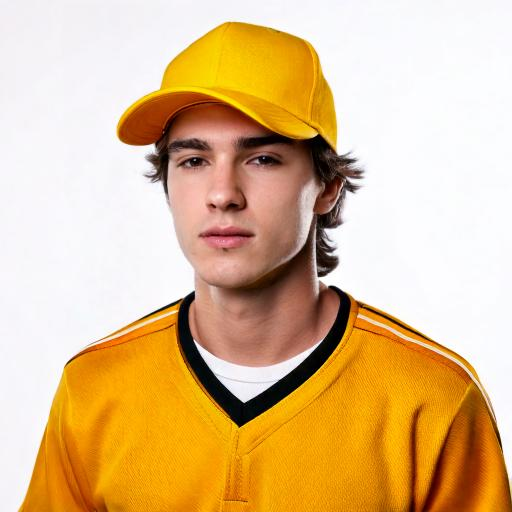
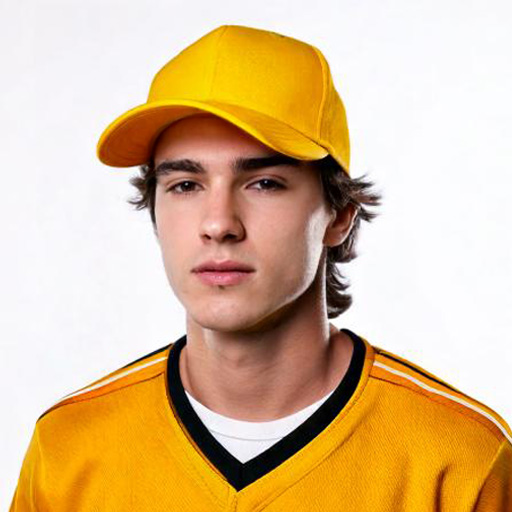
clyde

diff --git a/players.js b/players.js
@@ -17,7 +17,7 @@ const players = [
         bioLink: 'http://bratinstitute.com'},
     { no: 9, name: "Walker Mendez", pos: "INF", year: "Sophomore", ht: "6'3\"", wt: "205 lbs", hometown: "Wayne, N.J.", school: "Wayne Hills HS", bt: "L/R", image: "images/9 Walker Mendez.jpg",
         bioLink: 'http://bratinstitute.com'},
-    { no: 10, name: "Clyde Babee", pos: "RHP", year: "Freshman", ht: "5'11\"", wt: "0 lbs", hometown: "Houston, Texas", school: "Cy Ranch HS", bt: "R/R", image: "images/10 Clyde Babee.png",
+    { no: 10, name: "Clyde Babee", pos: "RHP", year: "Freshman", ht: "5'11\"", wt: "0 lbs", hometown: "Houston, Texas", school: "Cy Ranch HS", bt: "R/R", image: "images/10 Clyde Babee.jpg",
         bioLink: 'http://bratinstitute.com'},
     { no: 11, name: "Khal Valdez", pos: "RHP", year: "Sophomore", ht: "6'1\"", wt: "180 lbs", hometown: "Naples, Fla.", school: "Gulf Coast HS", bt: "R/R", image: "images/11 Khal Valdez.png",
         bioLink: 'http://bratinstitute.com'},
